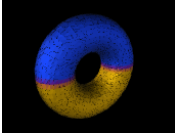
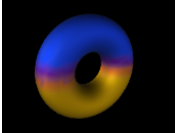
Update: Add [CustomVertexShader] GainAndBias parameter

diff --git a/Operators/Lib/mesh/modify/CustomVertexShader.cs b/Operators/Lib/mesh/modify/CustomVertexShader.cs
@@ -37,6 +37,9 @@ namespace Lib.mesh.modify{
         [Input(Guid = "946d47f3-9fcf-4f2c-b7c9-26d94ddb4613")]
         public readonly InputSlot<float> D = new InputSlot<float>();
 
+        [Input(Guid = "7e02e1e8-0ddc-4c80-8109-f5ee39bd3987")]
+        public readonly InputSlot<System.Numerics.Vector2> GainAndBias = new InputSlot<System.Numerics.Vector2>();
+
         [Input(Guid = "a76dbb53-092c-4398-9e51-889d4785d60d")]
         public readonly InputSlot<T3.Core.DataTypes.Texture2D> Image = new InputSlot<T3.Core.DataTypes.Texture2D>();
 
